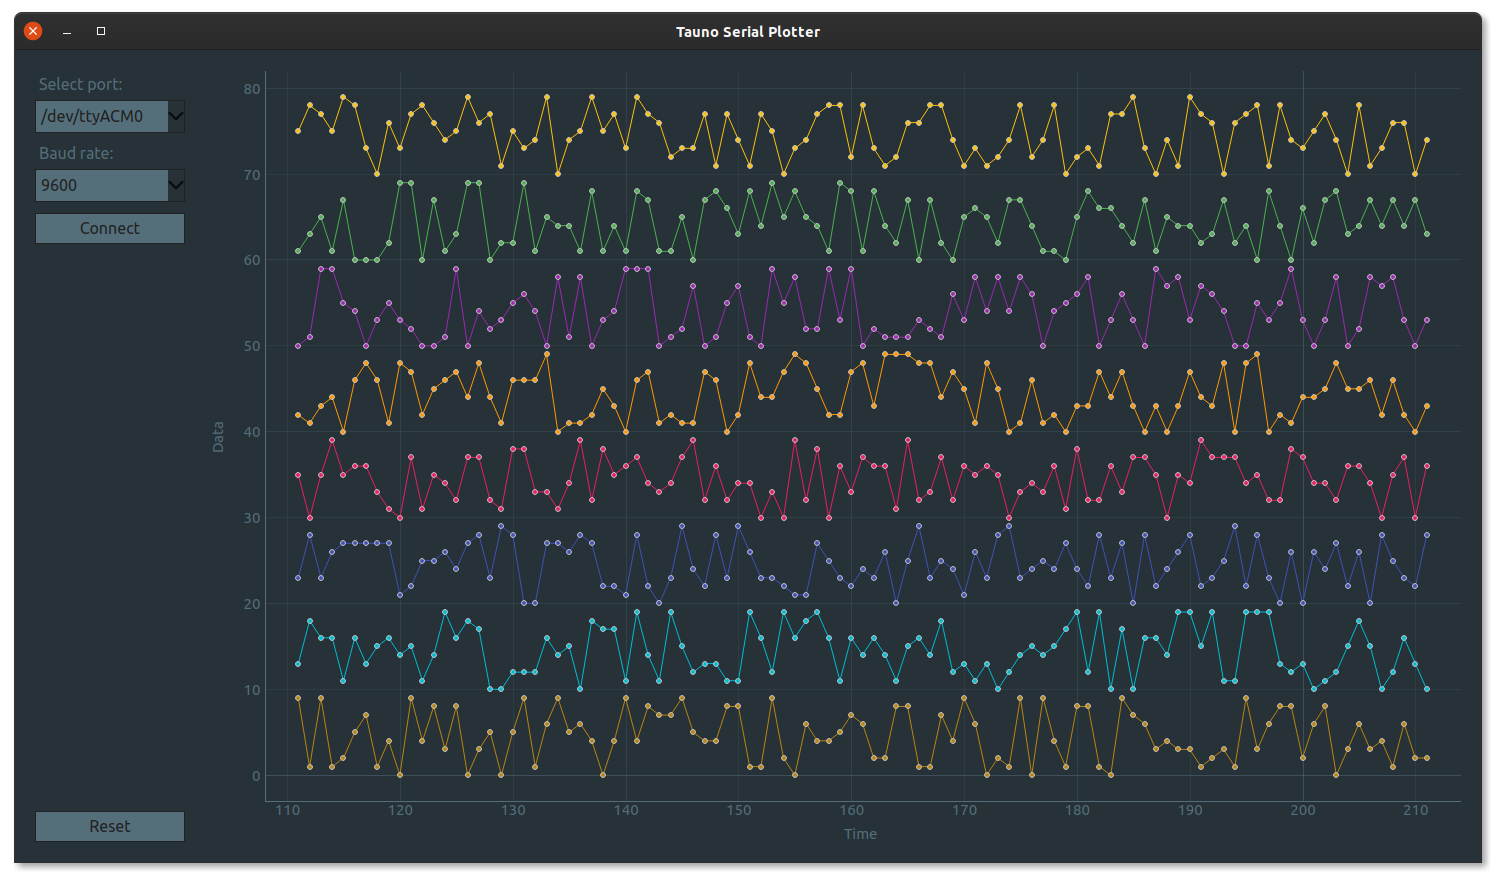
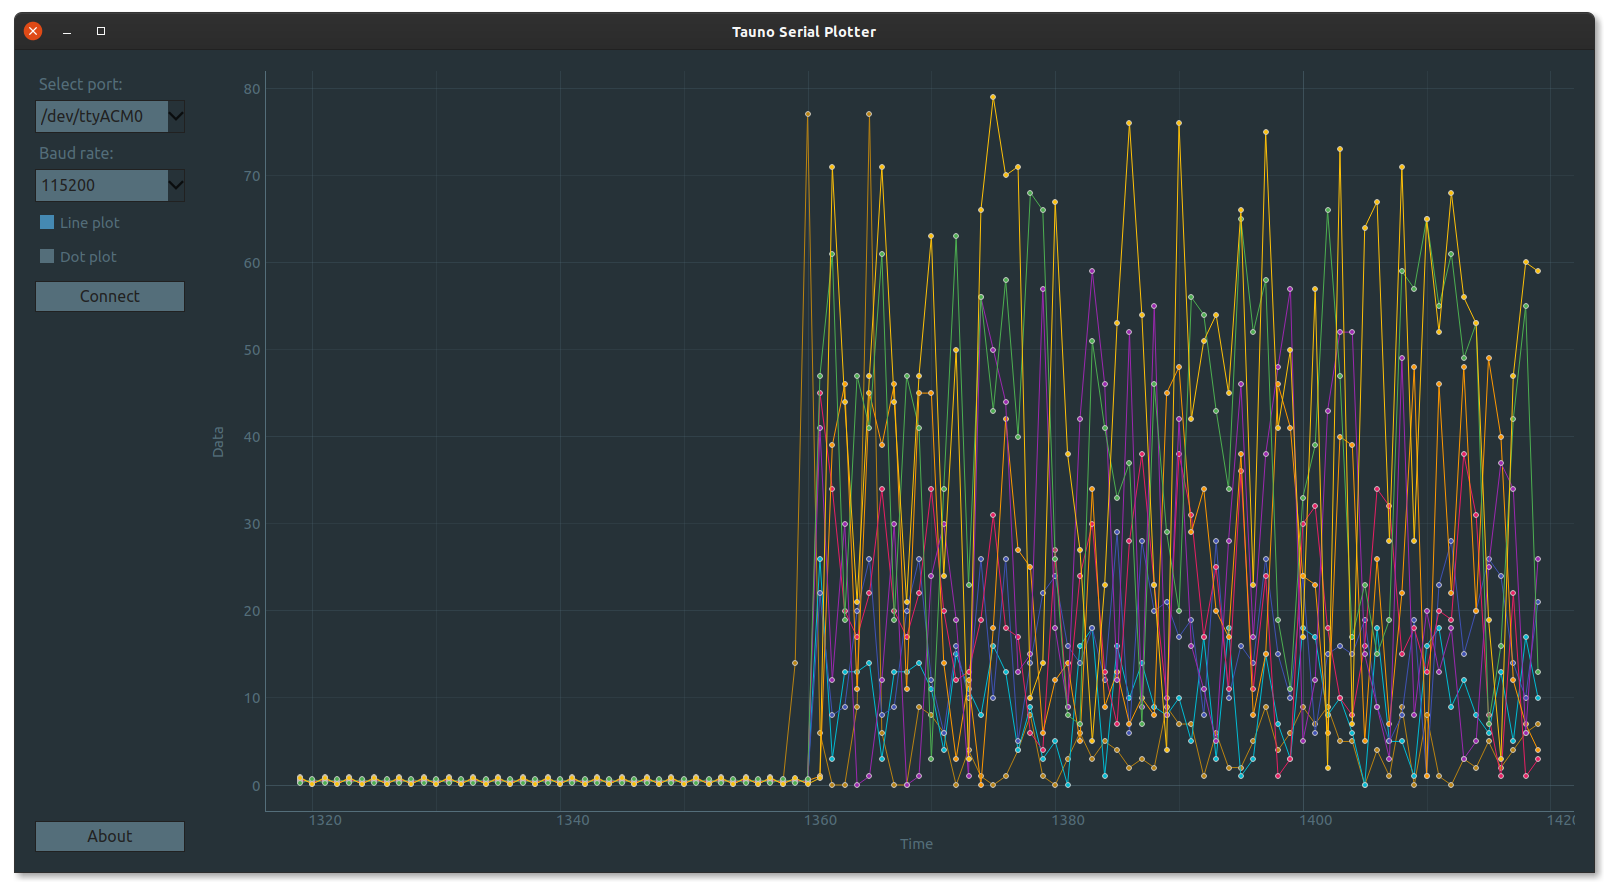
Dot(scatter) or line chart

diff --git a/Tauno-Serial-Plotter.py b/Tauno-Serial-Plotter.py
@@ -156,10 +156,11 @@ QComboBox::down-arrow {{
 # PLOT
 class Plot(pg.GraphicsWindow):
 
-    def __init__(self, number_of_plots='1', parent=None):
+    def __init__(self, number_of_plots='1', scatter_plot = False, parent=None):
         super(Plot,self).__init__(parent=None)
 
         self.number_of_plots = number_of_plots
+        self.scatter_plot = scatter_plot
 
         if self.number_of_plots is None:
             print("number_of_plots is None")
@@ -182,7 +183,10 @@ class Plot(pg.GraphicsWindow):
         self.data_lines = []
         
         for i in range(self.number_of_plots):
-            pen = pg.mkPen(color=(plot_colors[i]))
+            if self.scatter_plot:  # Dotts
+                pen = None
+            else:                  # Lines
+                pen = pg.mkPen(color=(plot_colors[i]))
             brush = pg.mkBrush(color=(plot_colors[i]))
             line = self.serialplot.plot(x=self.x, y=self.ynew[i], pen=pen, symbol='o', symbolBrush=brush, symbolSize=5)
             self.data_lines.append(line)
@@ -225,7 +229,7 @@ class Controls(QWidget):
         self.select_baud.setStyleSheet(QComboBox_style)
         self.select_baud.setFixedWidth(self.control_width)
         # Select line or dot
-        '''
+        
         self.line_box = QtWidgets.QCheckBox('Line plot', parent=self)
         self.menu_1.addWidget(self.line_box)
         self.line_box.setChecked(1)
@@ -235,7 +239,7 @@ class Controls(QWidget):
         self.menu_1.addWidget(self.dot_box)
         self.dot_box.setChecked(0)
         self.dot_box.setStyleSheet(QCheckBox_style)
-        '''
+        
         # Button
         self.connect = QtWidgets.QPushButton('Connect', parent=self)
         self.menu_1.addWidget(self.connect) # funk
@@ -269,6 +273,7 @@ class MainWindow(QWidget):
         self.app = app
         self.plot_exist = False
         self.is_fullscreen = False
+        
 
         self.ports = [''] # list of avablie devices
         self.selected_port = self.ports[0] # '/dev/ttyACM0'
@@ -277,6 +282,7 @@ class MainWindow(QWidget):
         self.selected_baudrate = self.baudrates[4]
 
         self.number_of_lines = 0
+        self.scatter_plot = False
 
         self.init_ui()
         self.center_mainwindow()
@@ -300,6 +306,9 @@ class MainWindow(QWidget):
         self.controls.select_baud.currentIndexChanged.connect(self.selected_baud_changed)
         self.controls.about.pressed.connect(self.about) 
         self.controls.connect.pressed.connect(self.connect)
+
+        self.controls.dot_box.pressed.connect(self.selected_dot)
+        self.controls.line_box.pressed.connect(self.selected_line)
     
     # Init functions
 
@@ -367,7 +376,21 @@ class MainWindow(QWidget):
                     while len(self.plot.ynew[i]) > len(self.plot.x):
                         # Remove the first element on list
                         self.plot.ynew[i] = self.plot.ynew[i][1:]
-    
+
+
+    def selected_dot(self):
+        print("Selected dot pot")
+        if not self.plot_exist:
+            self.controls.line_box.setChecked(0)
+            self.scatter_plot = True
+
+
+    def selected_line(self):
+        print("Selected line pot")
+        if not self.plot_exist:
+            self.controls.dot_box.setChecked(0)
+            self.scatter_plot = False
+
     # Button Connect
     def connect(self):
         print('Connect Button')
@@ -375,11 +398,13 @@ class MainWindow(QWidget):
         if not self.plot_exist:
             self.number_of_lines = self.how_many_lines()
             if self.number_of_lines is not None:
-                self.plot = Plot(self.number_of_lines) # TODO data punktide arv!!!!
+                self.plot = Plot(self.number_of_lines, self.scatter_plot) # TODO data punktide arv!!!!
                 self.horizontalLayout.addWidget(self.plot)
                 self.open_serial()
                 self.plot_exist = True
                 self.timer.timeout.connect(self.read_serial_data)
+                self.controls.dot_box.setEnabled(False)
+                self.controls.line_box.setEnabled(False)
             else:
                 print("connect: None!")
         else:
@@ -446,6 +471,7 @@ class MainWindow(QWidget):
 
                     for i in range(self.number_of_lines):
                         self.plot.data_lines[i].setData(self.plot.x, self.plot.ynew[i])
+
             except:
                 print("Error read_serial_data!!!")
                 self.equal_x_and_y()
